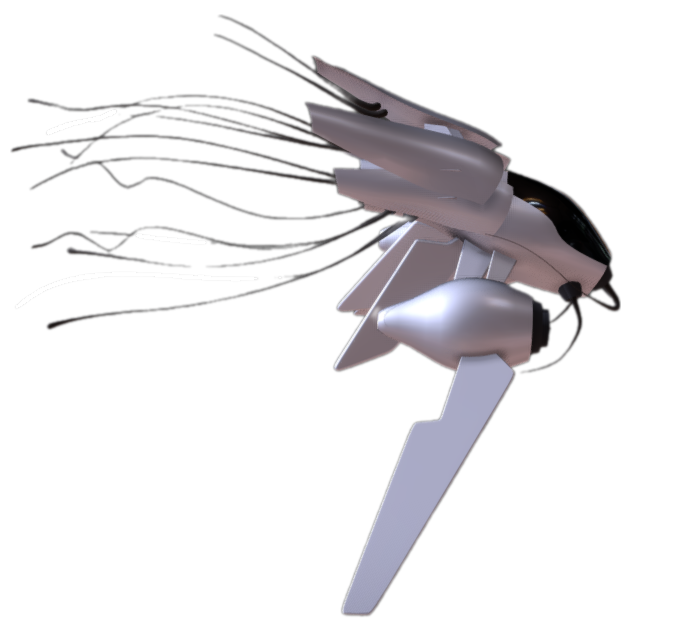
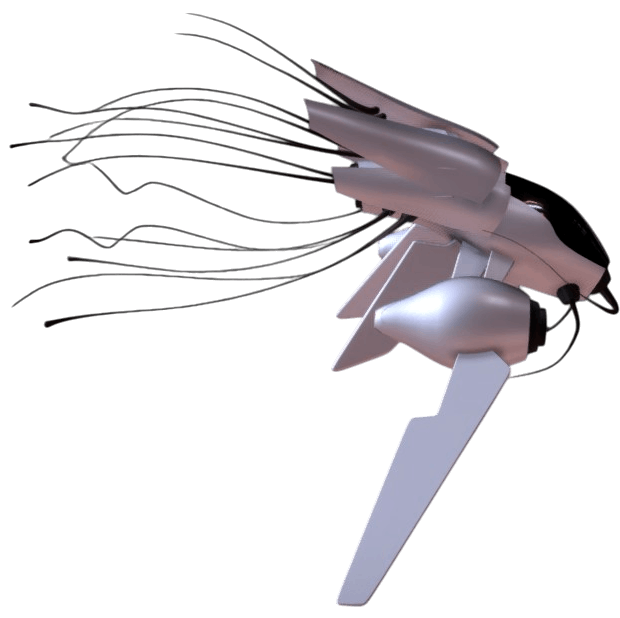
Add shots collision and distance collision

diff --git a/functions/function_shots_collision.py b/functions/function_shots_collision.py
@@ -28,7 +28,7 @@ def player_collision():
             obj=hits[0],
             angle=hits[0].angle
         )
-        
+
 
 def enemies_collision():
     object_collide = groupcollide(
@@ -53,4 +53,40 @@ def enemies_collision():
             angle=hits[0].angle
         )
 
+def shots_collision():
+    object_collide = groupcollide(
+        sprite_groups.player_shot_group,
+        sprite_groups.enemies_shot_group,
+        True,
+        True
+    )
+    if object_collide:
+        hits = list(object_collide.values())[0]
+        explosion = Explosion(
+            dir_path='images/explosions/rocket1_expl',
+            speed_frame=.01,
+            scale_value=(.5, .5),
+            loops=1,
+            obj=hits[0],
+            angle=hits[0].angle
+        )
 
+def distance_collision(obj):
+    if obj in sprite_groups.player_shot_group:
+        explosion = Explosion(
+                dir_path='images/explosions/pulsar',
+                speed_frame=.01,
+                scale_value=(.25, .25),
+                loops=1,
+                obj=obj,
+                angle=obj.angle
+            )
+    if obj in sprite_groups.enemies_shot_group:
+        explosion = Explosion(
+                dir_path='images/explosions/rocket1_expl',
+                speed_frame=.01,
+                scale_value=(.5, .5),
+                loops=1,
+                obj=obj,
+                angle=obj.angle
+            )

diff --git a/units/class_Shoots.py b/units/class_Shoots.py
@@ -10,6 +10,8 @@ from icecream import ic
 from functions.function_shots_collision import (
     player_collision,
     enemies_collision,
+    shots_collision,
+    distance_collision,
     )
 
 
@@ -52,6 +54,7 @@ class Shoots(Sprite):
             Vector2(self.rect.center).distance_to(self.old_shot_coordinate)
             > self.kill_shot_distance
         ):
+            distance_collision(self)
             self.kill()
 
     def move(self):
@@ -63,5 +66,6 @@ class Shoots(Sprite):
         self.move()
         player_collision()
         enemies_collision()
+        shots_collision()
 
 

diff --git a/units/class_Explosion.py b/units/class_Explosion.py
@@ -26,9 +26,9 @@ class Explosion(Animator, Sprite):
         self.angle = angle
 
     def update(self):
-        self.rect.center = self.obj.rect.center
-        self.angle = self.obj.angle
         if self.loops > 0:
+            self.rect.center = self.obj.rect.center
+            self.angle = self.obj.angle
             self.image_rotation = self.frames[self.frame][0]
             self.image_rotation = rotozoom(self.image_rotation, self.angle, 1)
             self.rect = self.image_rotation.get_rect(center=self.rect.center)

diff --git a/classes/class_Animator.py b/classes/class_Animator.py
@@ -60,7 +60,7 @@ class Animator:
         self.rect = self.image_rotation.get_rect()
 
     def animate(self):
-        self.size = self.image_rotation.get_size()
+        # self.size = self.image_rotation.get_size()
 
         if self.frame_time == 0:
             self.frame_time = time()

diff --git a/config/sources/enemies/source.py b/config/sources/enemies/source.py
@@ -2,7 +2,7 @@ from pygame.transform import flip, scale_by
 from pygame.image import load
 
 SCALE_VALUE = {
-                1: .25,
+                1: .225,
                }
 
 

diff --git a/config/sources/heroes/source.py b/config/sources/heroes/source.py
@@ -2,7 +2,7 @@ from pygame.transform import flip, scale_by
 from pygame.image import load
 
 SCALE_VALUE = {
-                1: .25,
+                1: .225,
                }
 
 

diff --git a/main.py b/main.py
@@ -1,6 +1,5 @@
 import pygame as pg
 from sys import exit
-from sys import stdout
 
 from loguru import logger
 
